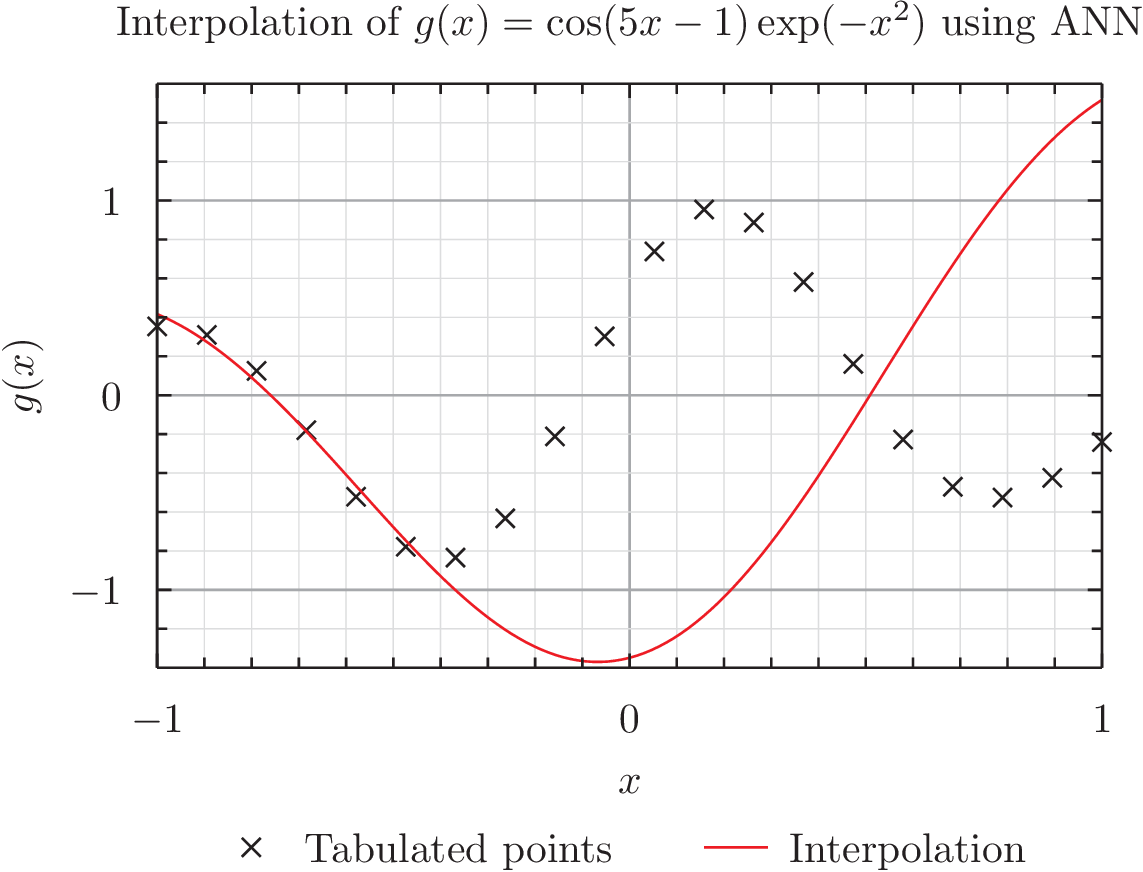
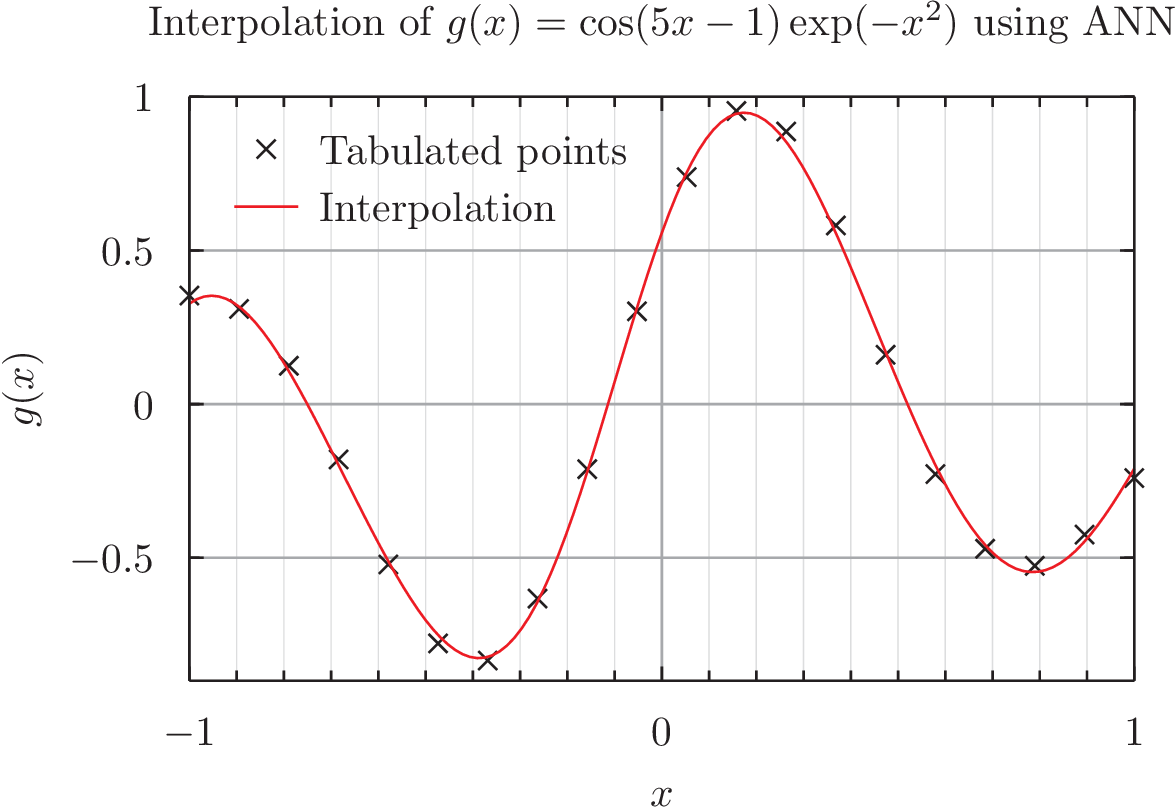
Done with neural-network A

diff --git a/homework/neural_network/A/nn.cs b/homework/neural_network/A/nn.cs
@@ -18,7 +18,7 @@ public class ann{
 		double outputSum = 0;
 		for(int i = 0; i < n; i++) {
 			double a = p[3*i + 0]; 
-			double b = p[3*1 + 1];
+			double b = p[3*i + 1];
 			double w = p[3*i + 2];
 			outputSum += w * f((x - a) / b);
 		}
@@ -31,7 +31,7 @@ public class ann{
 			p = u;
 			double sum = 0;
 
-			for(int i = 0; i < n; i++) {
+			for(int i = 0; i < x.size; i++) {
 				sum += Pow(response(x[i]) - y[i], 2); //formula 3 in the notes
 			}
 
